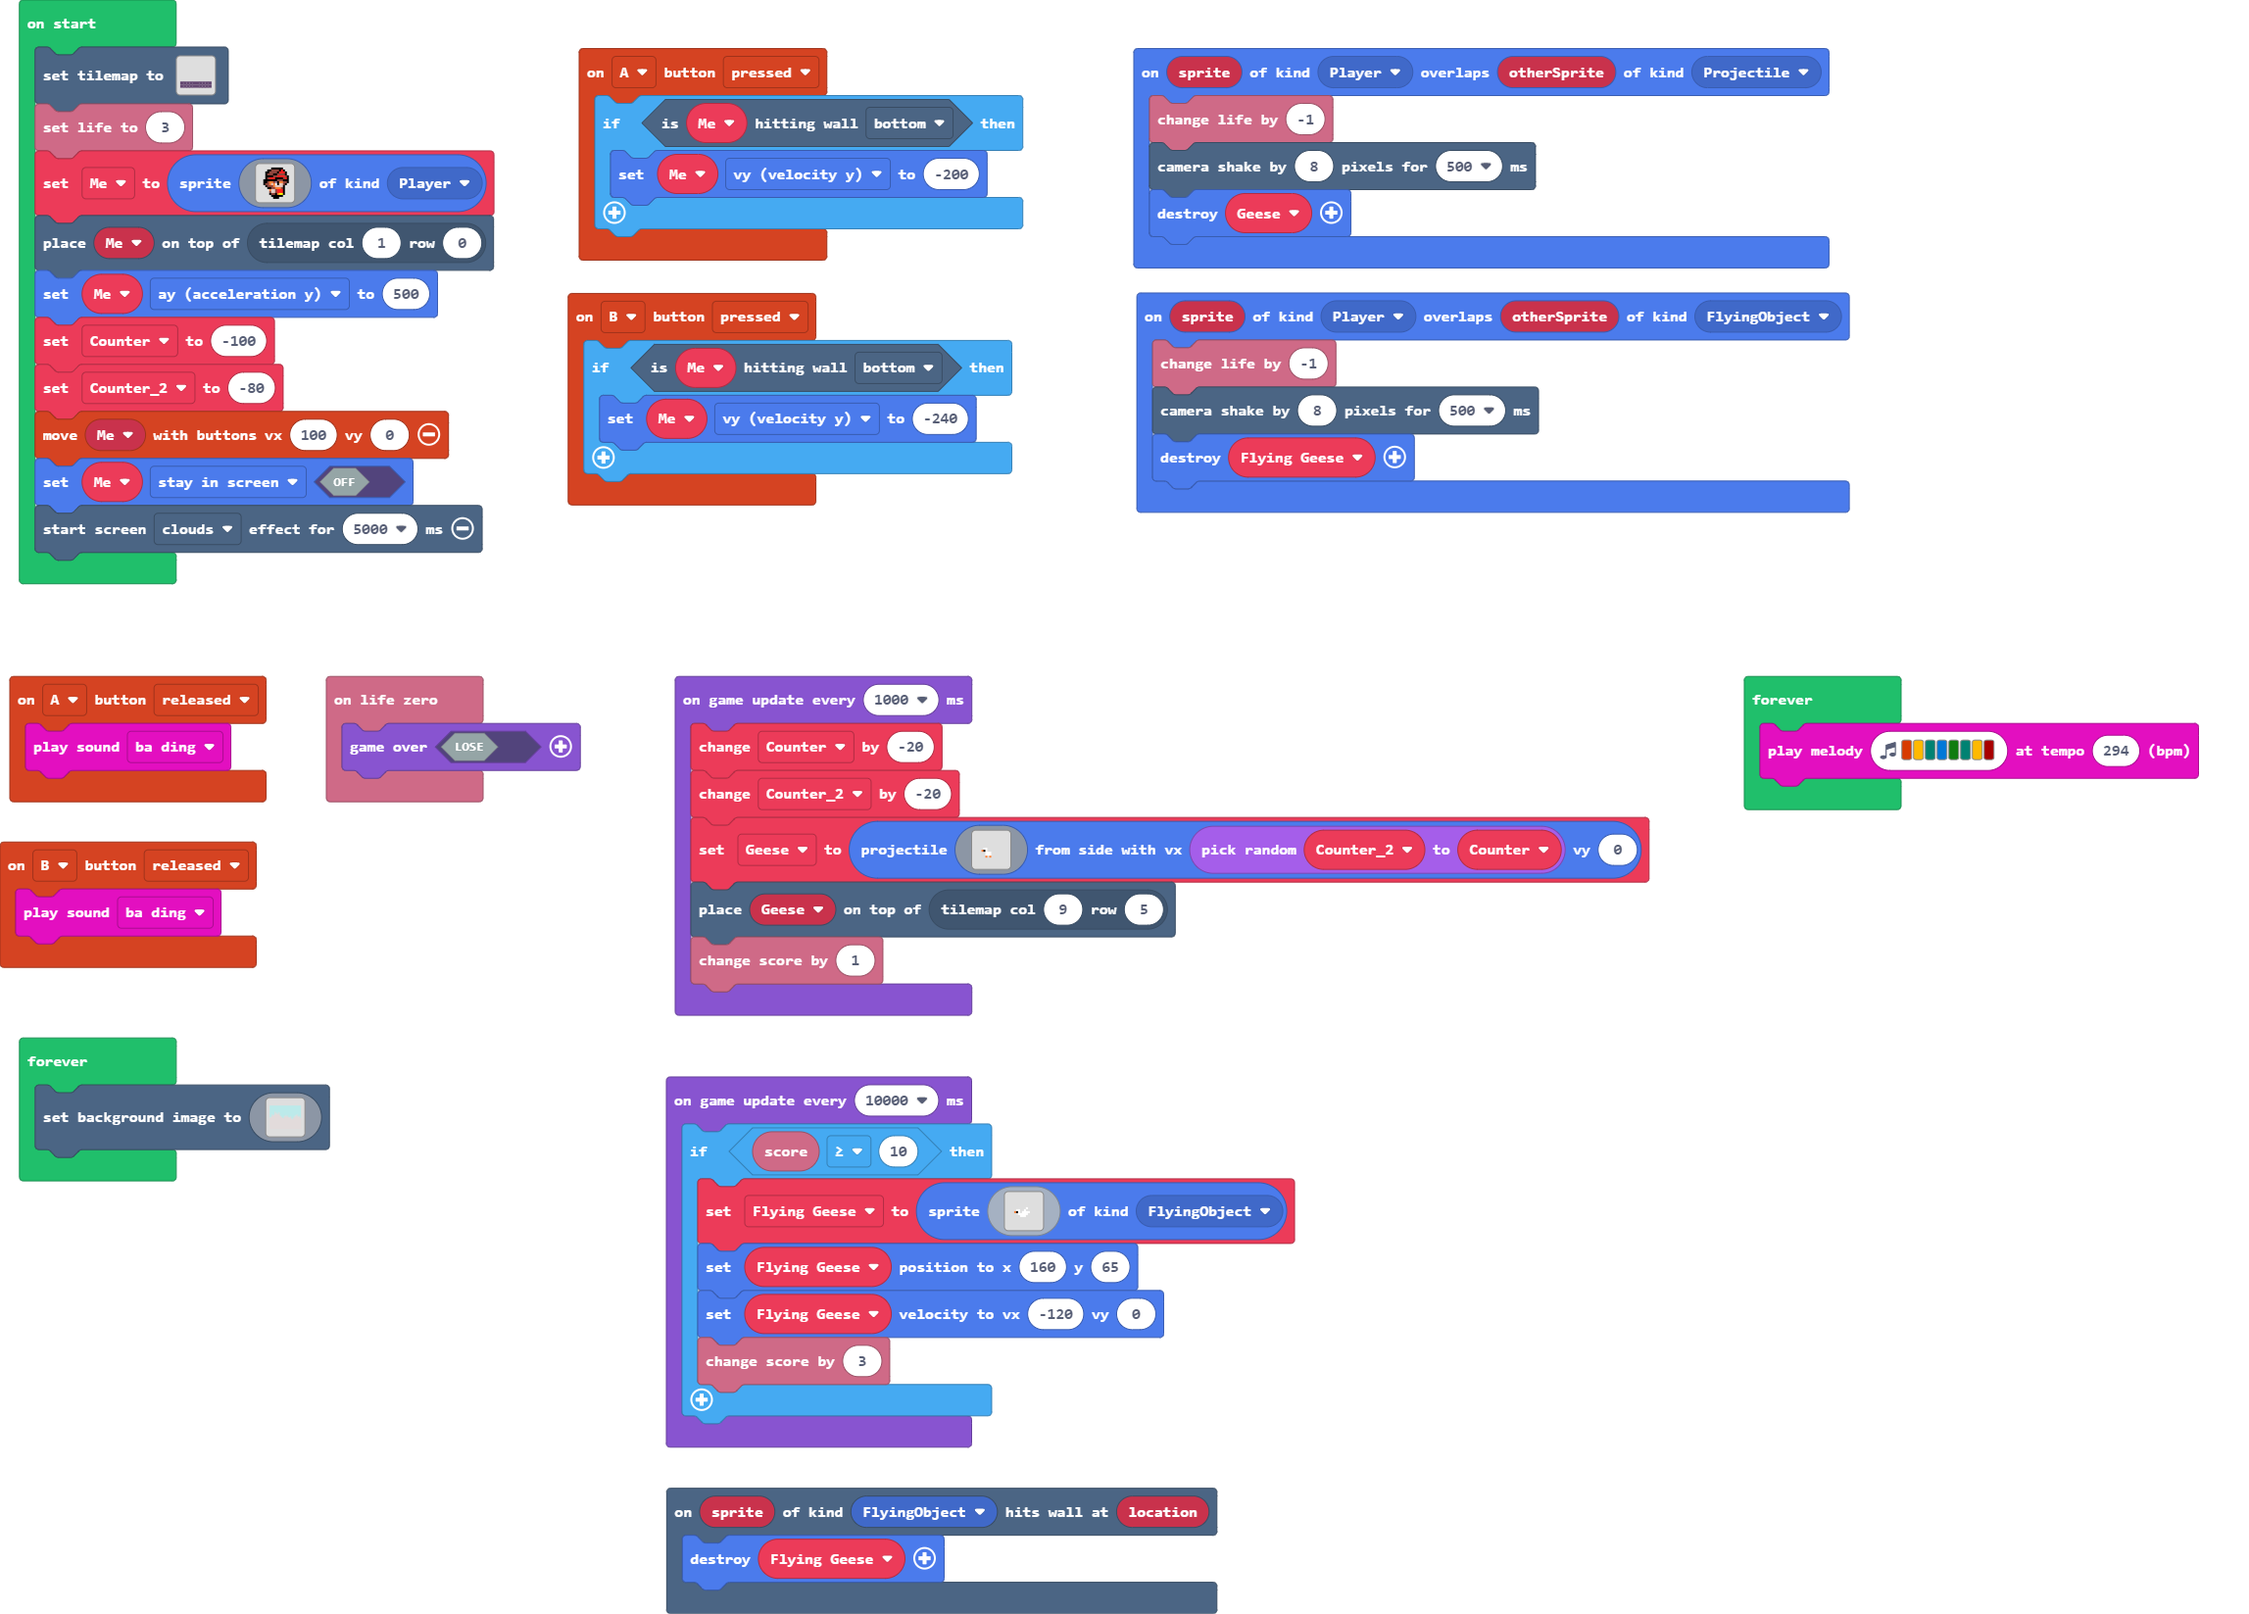
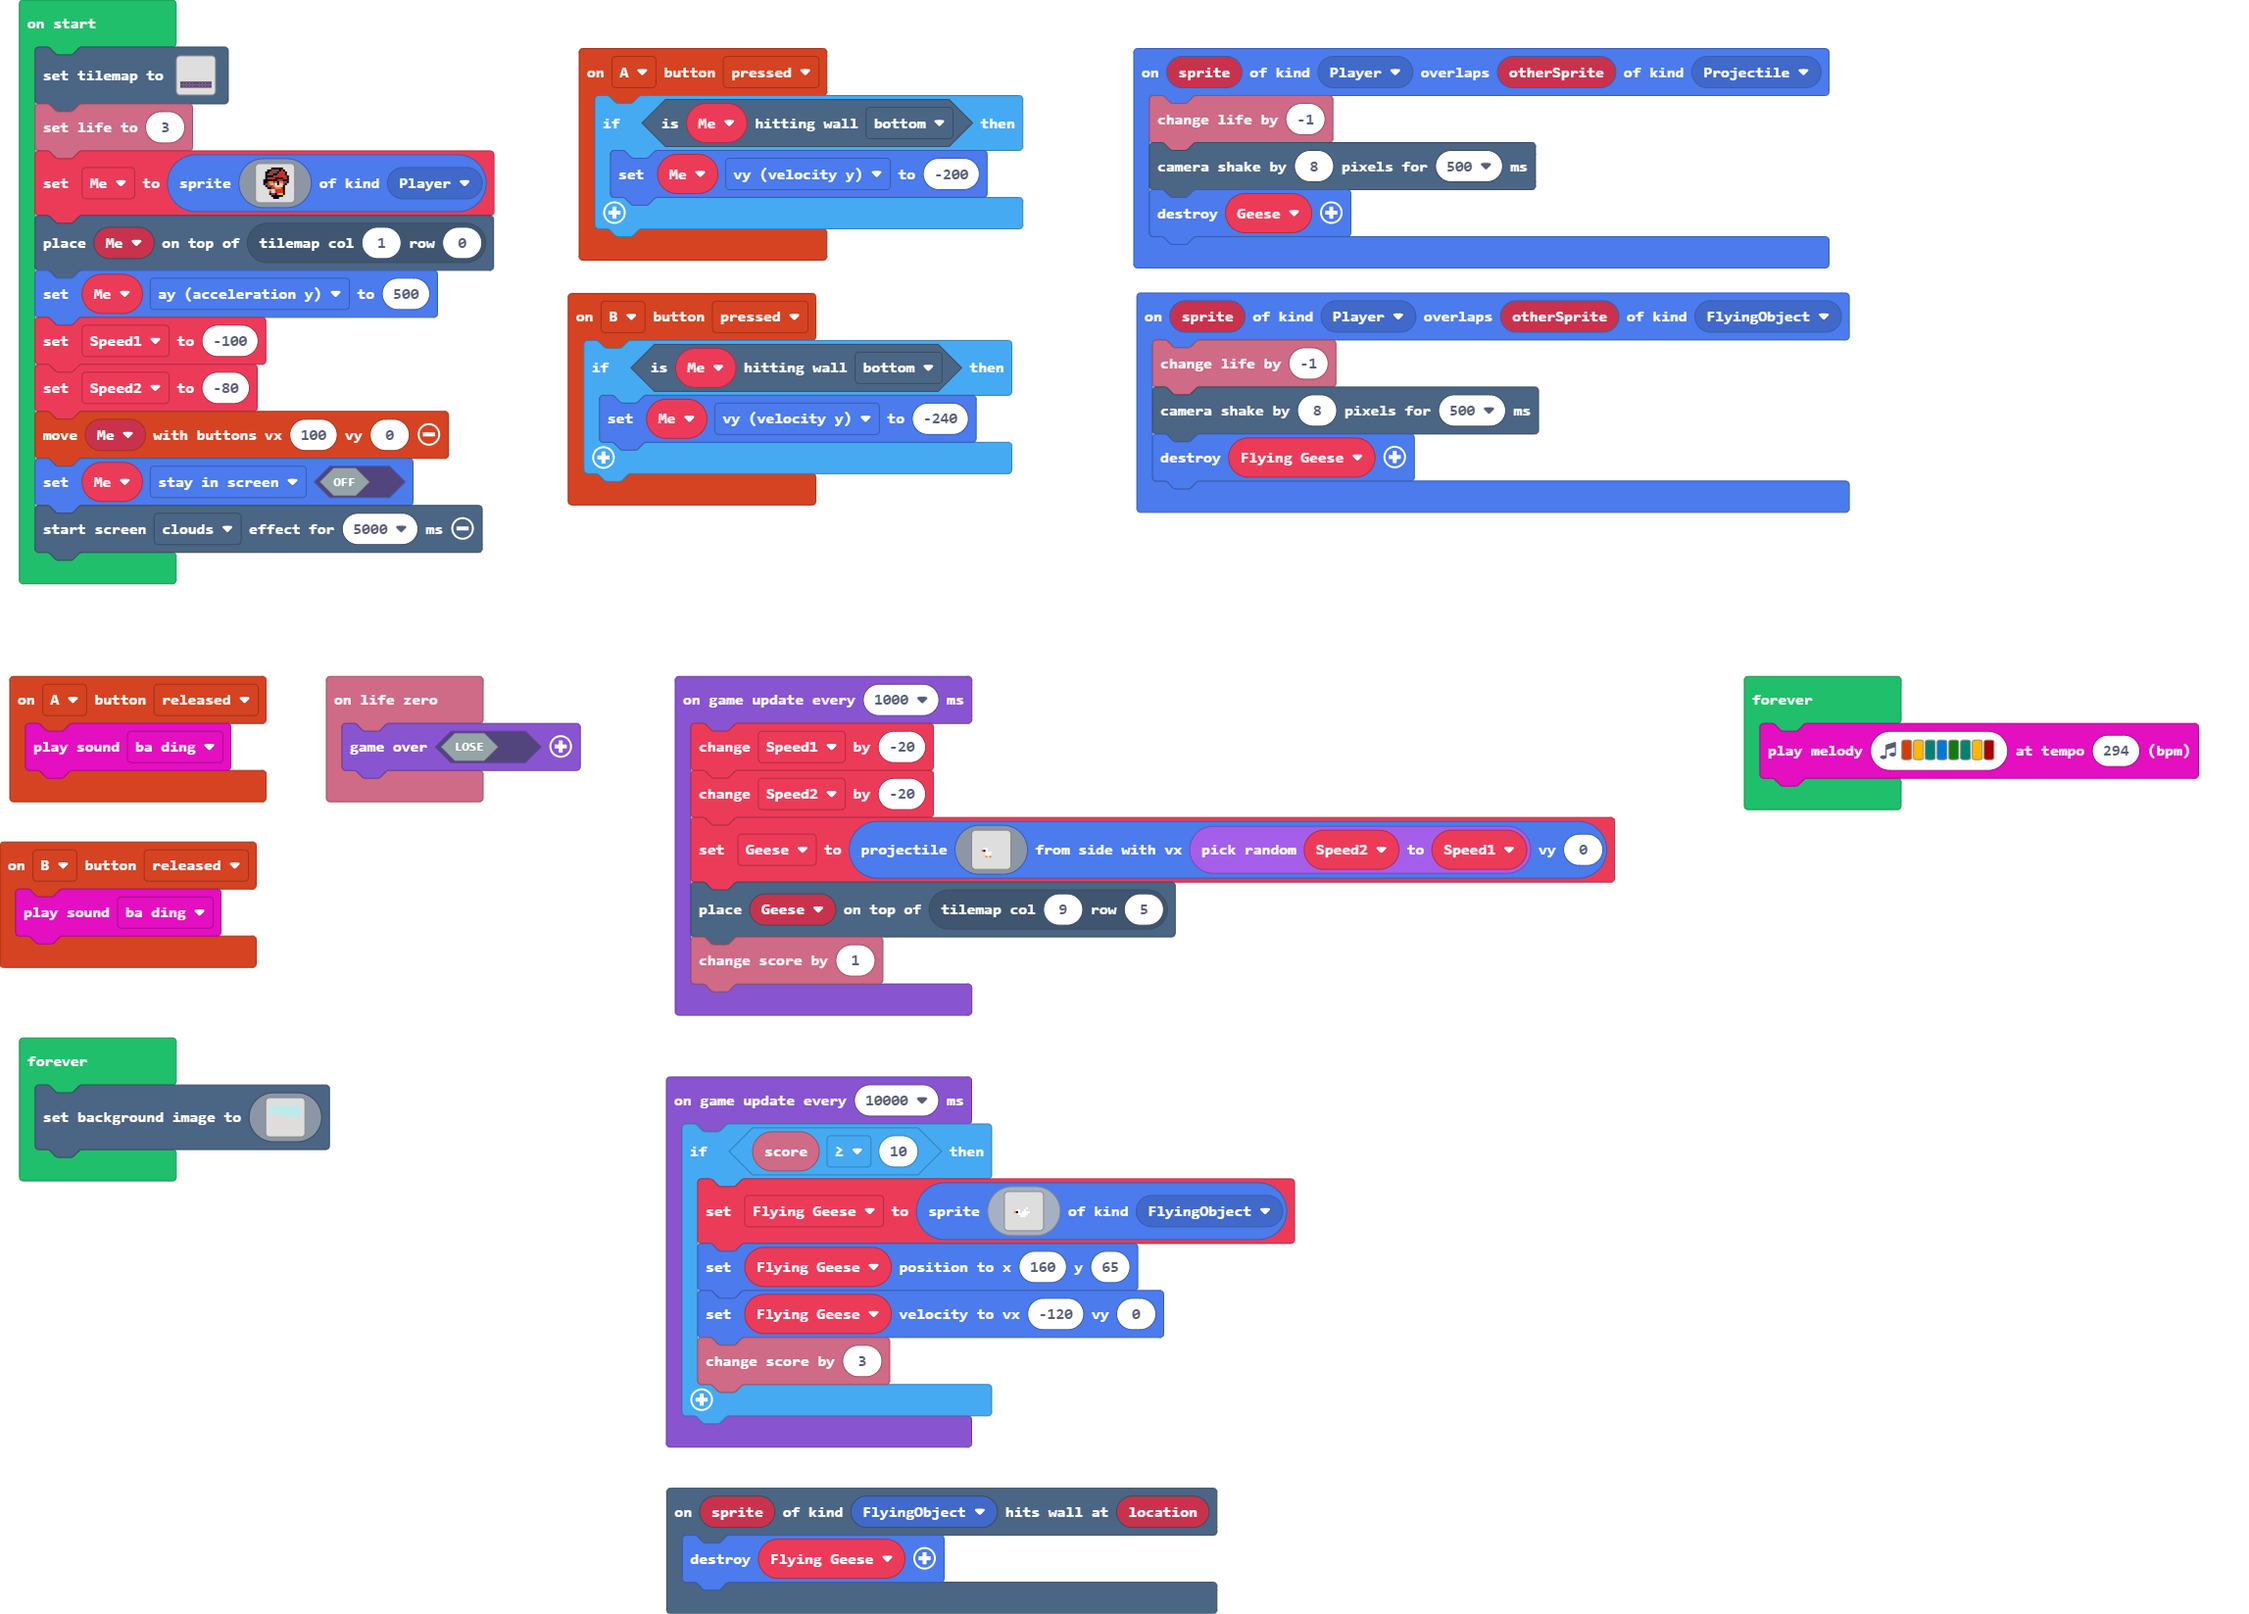
Update main.blocks, main.ts

Changed region(s): [[0.6187, 0.4954, 0.7425, 0.5574], [0.3403, 0.4335, 0.4331, 0.5264], [0.0619, 0.1858, 0.1237, 0.2787]]

diff --git a/main.ts b/main.ts
@@ -67,14 +67,14 @@ Me = sprites.create(img`
     `, SpriteKind.Player)
 tiles.placeOnTile(Me, tiles.getTileLocation(1, 0))
 Me.ay = 500
-let Counter = -100
-let Counter_2 = -80
+let Speed1 = -100
+let Speed2 = -80
 controller.moveSprite(Me, 100, 0)
 Me.setFlag(SpriteFlag.StayInScreen, false)
 effects.clouds.startScreenEffect(5000)
 game.onUpdateInterval(1000, function () {
-    Counter += -20
-    Counter_2 += -20
+    Speed1 += -20
+    Speed2 += -20
     Geese = sprites.createProjectileFromSide(img`
         . . . . . . . . . . . . . . . . 
         . . . . . . . . . . . . . . . . 
@@ -92,7 +92,7 @@ game.onUpdateInterval(1000, function () {
         . . . . . . . . . . . . . . . . 
         . . . . . . . . . . . . . . . . 
         . . . . . . . . . . . . . . . . 
-        `, randint(Counter_2, Counter), 0)
+        `, randint(Speed2, Speed1), 0)
     tiles.placeOnTile(Geese, tiles.getTileLocation(9, 5))
     info.changeScoreBy(1)
 })
